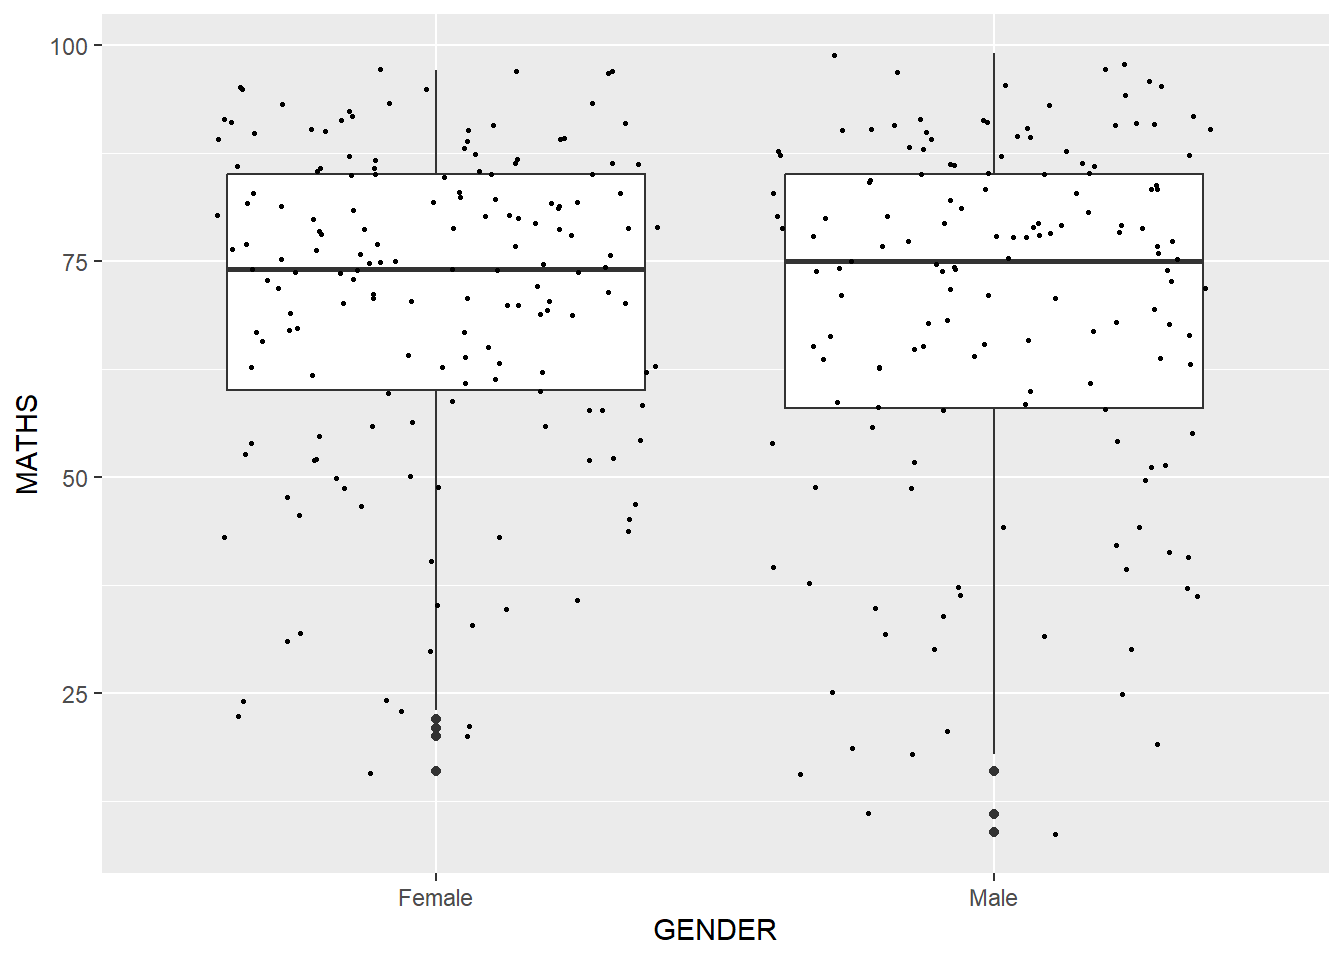
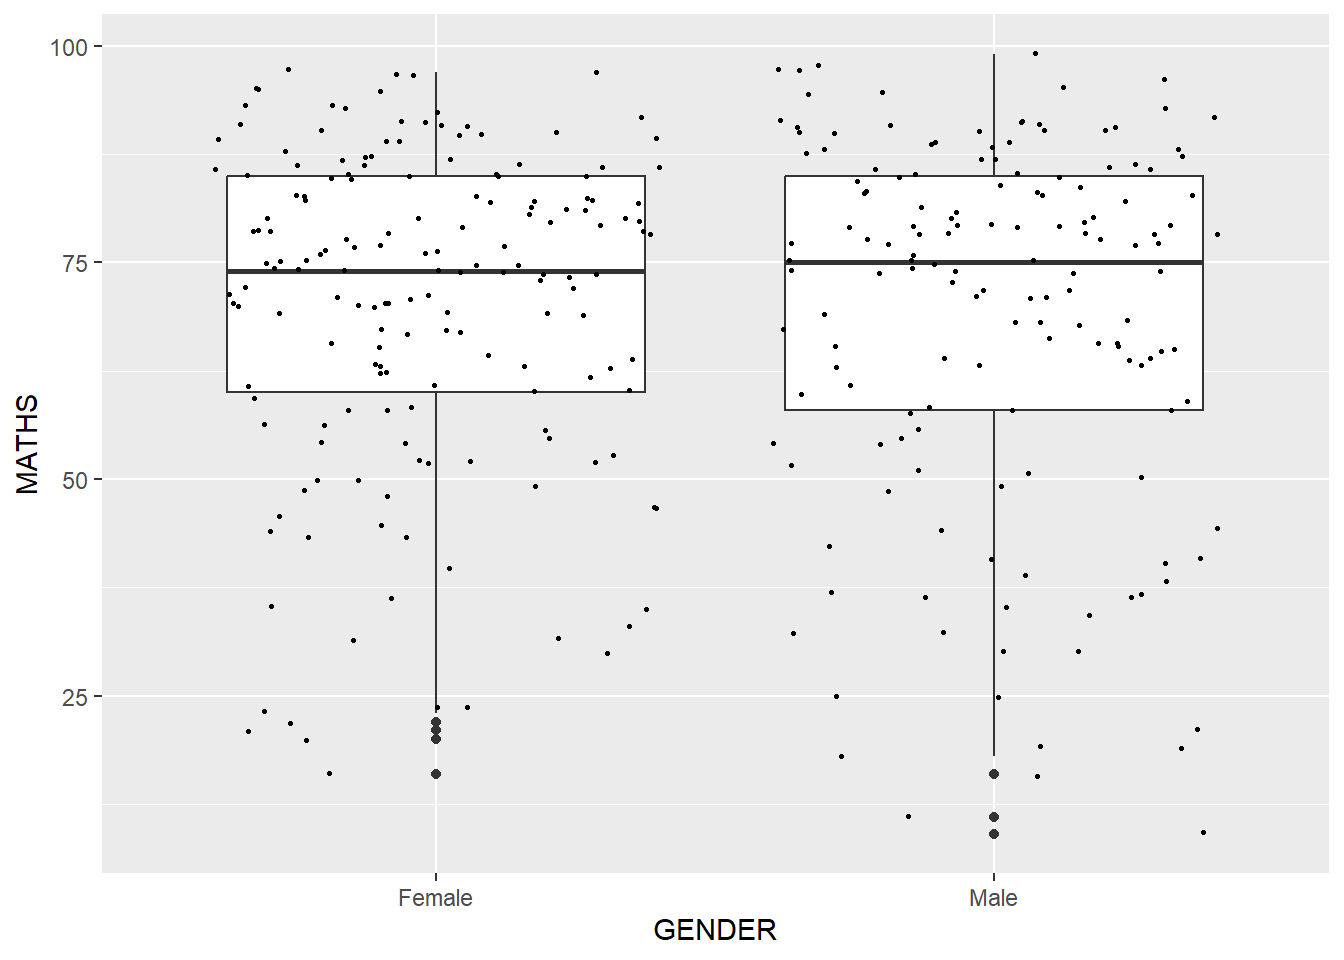
small changes

diff --git a/_site/HoE1.html b/_site/HoE1.html
@@ -249,7 +249,7 @@ pre > code.sourceCode > span > a:first-child::before { text-decoration: underlin
     <div>
     <div class="quarto-title-meta-heading">Modified</div>
     <div class="quarto-title-meta-contents">
-      <p class="date-modified">April 17, 2026</p>
+      <p class="date-modified">April 18, 2026</p>
     </div>
   </div>
     
@@ -364,8 +364,14 @@ Important
 </section>
 <section id="grammar-of-graphics" class="level2">
 <h2 class="anchored" data-anchor-id="grammar-of-graphics">1.4 Grammar of Graphics</h2>
-<p>Before we getting started using ggplot2, it is important for us to understand the principles of Grammer of Graphics.</p>
-<p>Grammar of Graphics is a general scheme for data visualization which breaks up graphs into semantic components such as scales and layers. It was introduced by Leland Wilkinson (1999) <strong>Grammar of Graphics</strong>, Springer. There are two principles in Grammar of Graphics, they are: - Graphics = distinct layers of grammatical elements - Meaningful plots through aesthetic mapping A good grammar of graphics will allow us to gain insight into the composition of complicated graphics, and reveal unexpected connections between seemingly different graphics (Cox 1978). It also provides a strong foundation for understanding a diverse range of graphics. Furthermore, it may also help guide us on what a well-formed or correct graphic looks like, but there will still be many grammatically correct but nonsensical graphics.</p>
+<p>Before we getting started using ggplot2, it is important for us to understand the principles of Grammar of Graphics.</p>
+<p>Grammar of Graphics is a general scheme for data visualization which breaks up graphs into semantic components such as scales and layers. It was introduced by Leland Wilkinson (1999) <strong>Grammar of Graphics</strong>, Springer.</p>
+<p>There are two principles in Grammar of Graphics, they are:</p>
+<ul>
+<li>Graphics = distinct layers of grammatical elements</li>
+<li>Meaningful plots through aesthetic mapping</li>
+</ul>
+<p>A good grammar of graphics will allow us to gain insight into the composition of complicated graphics, and reveal unexpected connections between seemingly different graphics (Cox 1978). It also provides a strong foundation for understanding a diverse range of graphics. Furthermore, it may also help guide us on what a well-formed or correct graphic looks like, but there will still be many grammatically correct but nonsensical graphics.</p>
 <section id="a-layered-grammar-of-graphics" class="level3">
 <h3 class="anchored" data-anchor-id="a-layered-grammar-of-graphics">A Layered Grammar of Graphics</h3>
 <p>ggplot2 is an implementation of Leland Wilkinson’s Grammar of Graphics. Figure below shows the seven grammars of ggplot2. <img src="images/HoE1_3.jpg" class="img-fluid" alt="Reference: Hadley Wickham (2010) “A layered grammar of graphics.” Journal of Computational and Graphical Statistics, vol.&nbsp;19, no. 1, pp.&nbsp;3–28."> A short description of each building block are as follows:</p>
@@ -446,10 +452,24 @@ Note
 </section>
 <section id="essential-grammatical-elements-in-ggplot2-geom" class="level2">
 <h2 class="anchored" data-anchor-id="essential-grammatical-elements-in-ggplot2-geom">1.7 Essential Grammatical Elements in ggplot2: geom</h2>
-<p>Geometric objects are the actual marks we put on a plot. Examples include: - <em>geom_point</em> for drawing individual points (e.g., a scatter plot) - <em>geom_line</em> for drawing lines (e.g., for a line charts) - <em>geom_smooth</em> for drawing smoothed lines (e.g., for simple trends or approximations) - <em>geom_bar</em> for drawing bars (e.g., for bar charts) - <em>geom_histogram</em> for drawing binned values (e.g.&nbsp;a histogram) - <em>geom_polygon</em> for drawing arbitrary shapes - <em>geom_map</em> for drawing polygons in the shape of a map! (You can access the data to use for these maps by using the map_data() function). <img src="images/HoE1_4.jpg" class="img-fluid"> - A plot must have at least one geom; there is no upper limit. You can add a geom to a plot using the + operator. - For complete list, please refer to <a href="https://ggplot2.tidyverse.org/reference/#section-layer-geoms">here</a>.</p>
+<p>Geometric objects are the actual marks we put on a plot. Examples include:</p>
+<ul>
+<li><em>geom_point</em> for drawing individual points (e.g., a scatter plot)</li>
+<li><em>geom_line</em> for drawing lines (e.g., for a line charts)</li>
+<li><em>geom_smooth</em> for drawing smoothed lines (e.g., for simple trends or approximations)</li>
+<li><em>geom_bar</em> for drawing bars (e.g., for bar charts)</li>
+<li><em>geom_histogram</em> for drawing binned values (e.g.&nbsp;a histogram)</li>
+<li><em>geom_polygon</em> for drawing arbitrary shapes</li>
+<li><em>geom_map</em> for drawing polygons in the shape of a map! (You can access the data to use for these maps by using the map_data() function).</li>
+</ul>
+<p><img src="images/HoE1_4.jpg" class="img-fluid"></p>
+<ul>
+<li>A plot must have at least one geom; there is no upper limit. You can add a geom to a plot using the + operator.</li>
+<li>For complete list, please refer to <a href="https://ggplot2.tidyverse.org/reference/#section-layer-geoms">here</a>.</li>
+</ul>
 <section id="geometric-objects-geom_bar" class="level3">
 <h3 class="anchored" data-anchor-id="geometric-objects-geom_bar">1.7.1 Geometric Objects: geom_bar</h3>
-<p>The code chunk below plots a bar chart by using <code>[geom_bar()](https://ggplot2.tidyverse.org/reference/geom_bar.html)</code>.</p>
+<p>The code chunk below plots a bar chart by using <a href="https://ggplot2.tidyverse.org/reference/geom_bar.html"><code>geom_bar()</code></a>.</p>
 <div class="cell">
 <div class="code-copy-outer-scaffold"><div class="sourceCode cell-code" id="cb7"><pre class="sourceCode r code-with-copy"><code class="sourceCode r"><span id="cb7-1"><a href="#cb7-1" aria-hidden="true" tabindex="-1"></a><span class="fu">ggplot</span>(<span class="at">data=</span>exam_data, </span>
 <span id="cb7-2"><a href="#cb7-2" aria-hidden="true" tabindex="-1"></a>       <span class="fu">aes</span>(<span class="at">x=</span>RACE)) <span class="sc">+</span></span>
@@ -466,7 +486,7 @@ Note
 <section id="geometric-objects-geom_dotplot" class="level3">
 <h3 class="anchored" data-anchor-id="geometric-objects-geom_dotplot">1.7.2 Geometric Objects: geom_dotplot</h3>
 <p>In a dot plot, the width of a dot corresponds to the bin width (or maximum width, depending on the binning algorithm), and dots are stacked, with each dot representing one observation.</p>
-<p>In the code chunk below, <code>[geom_dotplot()](https://ggplot2.tidyverse.org/reference/geom_dotplot.html)</code> of ggplot2 is used to plot a dot plot.</p>
+<p>In the code chunk below, <a href="https://ggplot2.tidyverse.org/reference/geom_dotplot.html"><code>geom_dotplot()</code></a> of ggplot2 is used to plot a dot plot.</p>
 <div class="cell">
 <div class="code-copy-outer-scaffold"><div class="sourceCode cell-code" id="cb8"><pre class="sourceCode r code-with-copy"><code class="sourceCode r"><span id="cb8-1"><a href="#cb8-1" aria-hidden="true" tabindex="-1"></a><span class="fu">ggplot</span>(<span class="at">data=</span>exam_data, </span>
 <span id="cb8-2"><a href="#cb8-2" aria-hidden="true" tabindex="-1"></a>       <span class="fu">aes</span>(<span class="at">x =</span> MATHS)) <span class="sc">+</span></span>
@@ -502,7 +522,11 @@ Note
 </div>
 </div>
 <div class="callout-body-container callout-body">
-<p>The code chunk below performs the following two steps: - <code>scale_y_continuous()</code> is used to turn off the y-axis, and - <em>binwidth argument</em> is used to change the binwidth to 2.5.</p>
+<p>The code chunk below performs the following two steps:</p>
+<ul>
+<li><code>scale_y_continuous()</code> is used to turn off the y-axis, and</li>
+<li><em>binwidth argument</em> is used to change the binwidth to 2.5.</li>
+</ul>
 </div>
 </div>
 <div class="cell">
@@ -552,7 +576,12 @@ Note
 </section>
 <section id="modifying-a-geometric-object-by-changing-geom" class="level3">
 <h3 class="anchored" data-anchor-id="modifying-a-geometric-object-by-changing-geom">1.7.4 Modifying a geometric object by changing <code>geom()</code></h3>
-<p>In the code chunk below, - <em>bins</em> argument is used to change the number of bins to 20, - <em>fill</em> argument is used to shade the histogram with light blue color, and - <em>color</em> argument is used to change the outline colour of the bars in black</p>
+<p>In the code chunk below,</p>
+<ul>
+<li><em>bins</em> argument is used to change the number of bins to 20,</li>
+<li><em>fill</em> argument is used to shade the histogram with light blue color, and</li>
+<li><em>color</em> argument is used to change the outline colour of the bars in black</li>
+</ul>
 <div class="cell">
 <div class="code-copy-outer-scaffold"><div class="sourceCode cell-code" id="cb11"><pre class="sourceCode r code-with-copy"><code class="sourceCode r"><span id="cb11-1"><a href="#cb11-1" aria-hidden="true" tabindex="-1"></a><span class="fu">ggplot</span>(<span class="at">data=</span>exam_data, </span>
 <span id="cb11-2"><a href="#cb11-2" aria-hidden="true" tabindex="-1"></a>       <span class="fu">aes</span>(<span class="at">x=</span> MATHS)) <span class="sc">+</span></span>
@@ -952,7 +981,14 @@ Note
 </section>
 <section id="essential-grammatical-elements-in-ggplot2-themes" class="level2">
 <h2 class="anchored" data-anchor-id="essential-grammatical-elements-in-ggplot2-themes">1.11 Essential Grammatical Elements in ggplot2: themes</h2>
-<p>Themes control elements of the graph not related to the data. For example: - background colour - size of fonts - gridlines - colour of labels Built-in themes include: - <code>theme_gray()</code> (default) - <code>theme_bw()</code> - <code>theme_classic()</code></p>
+<p>Themes control elements of the graph not related to the data. For example:</p>
+<ul>
+<li>background colour</li>
+<li>size of fonts</li>
+<li>gridlines</li>
+<li>colour of labels Built-in themes include:</li>
+<li><code>theme_gray()</code> (default) - <code>theme_bw()</code> - <code>theme_classic()</code></li>
+</ul>
 <p>A list of theme can be found at this <a href="https://ggplot2.tidyverse.org/reference/ggtheme.html">link</a>. Each theme element can be conceived of as either a line (e.g.&nbsp;x-axis), a rectangle (e.g.&nbsp;graph background), or text (e.g.&nbsp;axis title).</p>
 <section id="working-with-theme" class="level3">
 <h3 class="anchored" data-anchor-id="working-with-theme">1.11.1 Working with theme</h3>